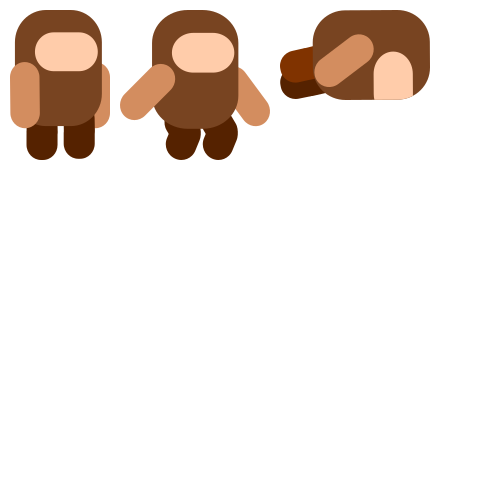
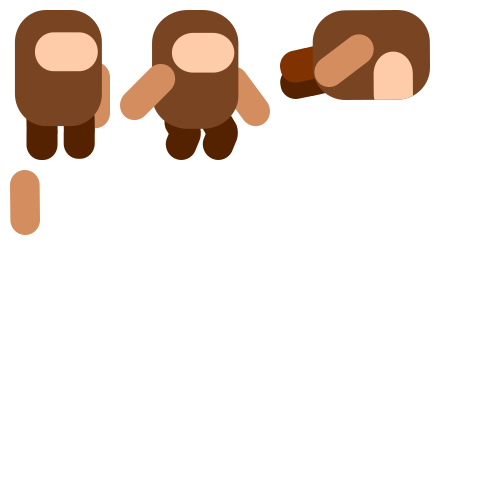
Add animation

Changed region(s): [[0.0, 0.12, 0.09, 0.27], [0.0, 0.33, 0.09, 0.48]]

diff --git a/src/level.rs b/src/level.rs
@@ -1,4 +1,9 @@
-use std::{cmp::Ordering, collections::HashMap, f32::consts::FRAC_PI_2, hash::Hash};
+use std::{
+    cmp::Ordering,
+    collections::HashMap,
+    f32::consts::{FRAC_PI_2, FRAC_PI_3},
+    hash::Hash,
+};
 
 use macroquad::{audio::play_sound_once, prelude::*, rand::gen_range};
 use serde::Deserialize;
@@ -1090,29 +1095,26 @@ fn draw_doors(screen: &Screen, player: &Player, doors: &Vec<Door>, assets: &Asse
         }
     }
 }
-
-pub fn draw_level(level: &Level, assets: &Assets, screen: &Screen) {
-    let Level { level, .. } = level;
-    draw_doors(screen, &level.player, &level.doors, assets);
+fn draw_player(player: &Player, assets: &Assets, screen: &Screen) {
     // Player
     draw_texture_ex(
         assets.images["player"],
-        (level.player.body.position.0.x - level.player.body.form.x_r()) * screen.height + screen.x,
-        (level.player.body.position.0.y - level.player.body.form.y_r()) * screen.height + screen.y,
+        (player.body.position.0.x - player.body.form.x_r()) * screen.height + screen.x,
+        (player.body.position.0.y - player.body.form.y_r()) * screen.height + screen.y,
         WHITE,
         DrawTextureParams {
             dest_size: Some(Vec2 {
-                x: 2. * level.player.body.form.x_r() * screen.height,
-                y: 2. * level.player.body.form.y_r() * screen.height,
+                x: 2. * player.body.form.x_r() * screen.height,
+                y: 2. * player.body.form.y_r() * screen.height,
             }),
-            source: Some(if level.player.health == Health::Dead {
+            source: Some(if player.health == Health::Dead {
                 Rect {
                     x: 280.,
                     y: 10.,
                     w: 150.,
                     h: 90.,
                 }
-            } else if level.player.visible {
+            } else if player.visible {
                 Rect {
                     x: 10.,
                     y: 10.,
@@ -1127,11 +1129,54 @@ pub fn draw_level(level: &Level, assets: &Assets, screen: &Screen) {
                     h: 150.,
                 }
             }),
-            flip_x: level.player.body.sight.0.x < 0.,
+            flip_x: player.body.sight.0.x < 0.,
             ..Default::default()
         },
     );
+    // Arm
+    if player.health != Health::Dead && player.visible {
+        let x = if player.body.sight.0.x < 0. {
+            0.4 * player.body.form.x_r()
+        } else {
+            -player.body.form.x_r()
+        } + player.body.position.0.x;
+        let y = player.body.position.0.y - 0.2 * player.body.form.y_r();
+        draw_texture_ex(
+            assets.images["player"],
+            x * screen.height + screen.x,
+            y * screen.height + screen.y,
+            WHITE,
+            DrawTextureParams {
+                dest_size: Some(Vec2 {
+                    x: 0.6 * player.body.form.x_r() * screen.height,
+                    y: 0.8 * player.body.form.y_r() * screen.height,
+                }),
+                source: Some(Rect {
+                    x: 10.,
+                    y: 170.,
+                    w: 30.,
+                    h: 65.,
+                }),
+                // flip_x:  < 0.,
+                pivot: Some(Vec2::new(
+                    (x + 0.3 * player.body.form.x_r()) * screen.height + screen.x,
+                    (y + 0.2 * player.body.form.y_r()) * screen.height + screen.y,
+                )),
+                rotation: player.reload.0 / PLAYER_RELOAD
+                    * FRAC_PI_3
+                    * 2.
+                    * (-player.body.sight.0.x.signum()),
+                ..Default::default()
+            },
+        );
+    }
+}
 
+pub fn draw_level(level: &Level, assets: &Assets, screen: &Screen) {
+    let Level { level, .. } = level;
+    draw_doors(screen, &level.player, &level.doors, assets);
+
+    draw_player(&level.player, assets, screen);
     // Balls
     for ball in &level.balls {
         if ball.room != level.player.body.room {

diff --git a/src/main.rs b/src/main.rs
@@ -29,10 +29,8 @@ async fn main() {
     show_mouse(false);
 
     let assets = Assets::load().await;
-    // let mut state = State::Scene(0, assets.scenes[0].clone());
-    // let mut sound = assets.sounds["village"];
-    let mut state = State::End(0);
-    let mut sound = assets.sounds["thief_at_the_kitchen"];
+    let mut state = State::Scene(0, assets.scenes[0].clone());
+    let mut sound = assets.sounds["village"];
     play_sound(
         sound.clone(),
         PlaySoundParams {

diff --git a/TODO.md b/TODO.md
@@ -8,26 +8,24 @@ TODOs for this project:
 - [X] Story mode
   - [X] Basic view of story(LN style)
   - [X] load from .yaml
-- [ ] AI
+- [X] AI
   - [X] Basic movement
   - [X] State machine to find hidden player
-  - [ ] Search in open door with key(?)
 - [X] Story
   - [X] Main plot
   - [X] Receipt holder
   - [X] Text
-- [ ] Graphics
+- [X] Graphics
   - [X] Environment graphics
   - [X] Player/enemies graphics
   - [X] Story pages
   - [X] Receipt holder
-  - [ ] Animations(?)
+  - [X] Animations
   - [X] End
 - [X] Audio
   - [X] Themes
   - [X] Sound effects for actions
-- [ ] HUD
-  - [ ] Menu(?)
+- [X] HUD
   - [X] Cursor
 - [X] Bugs
   - [X] Little render glitch on top of the level
